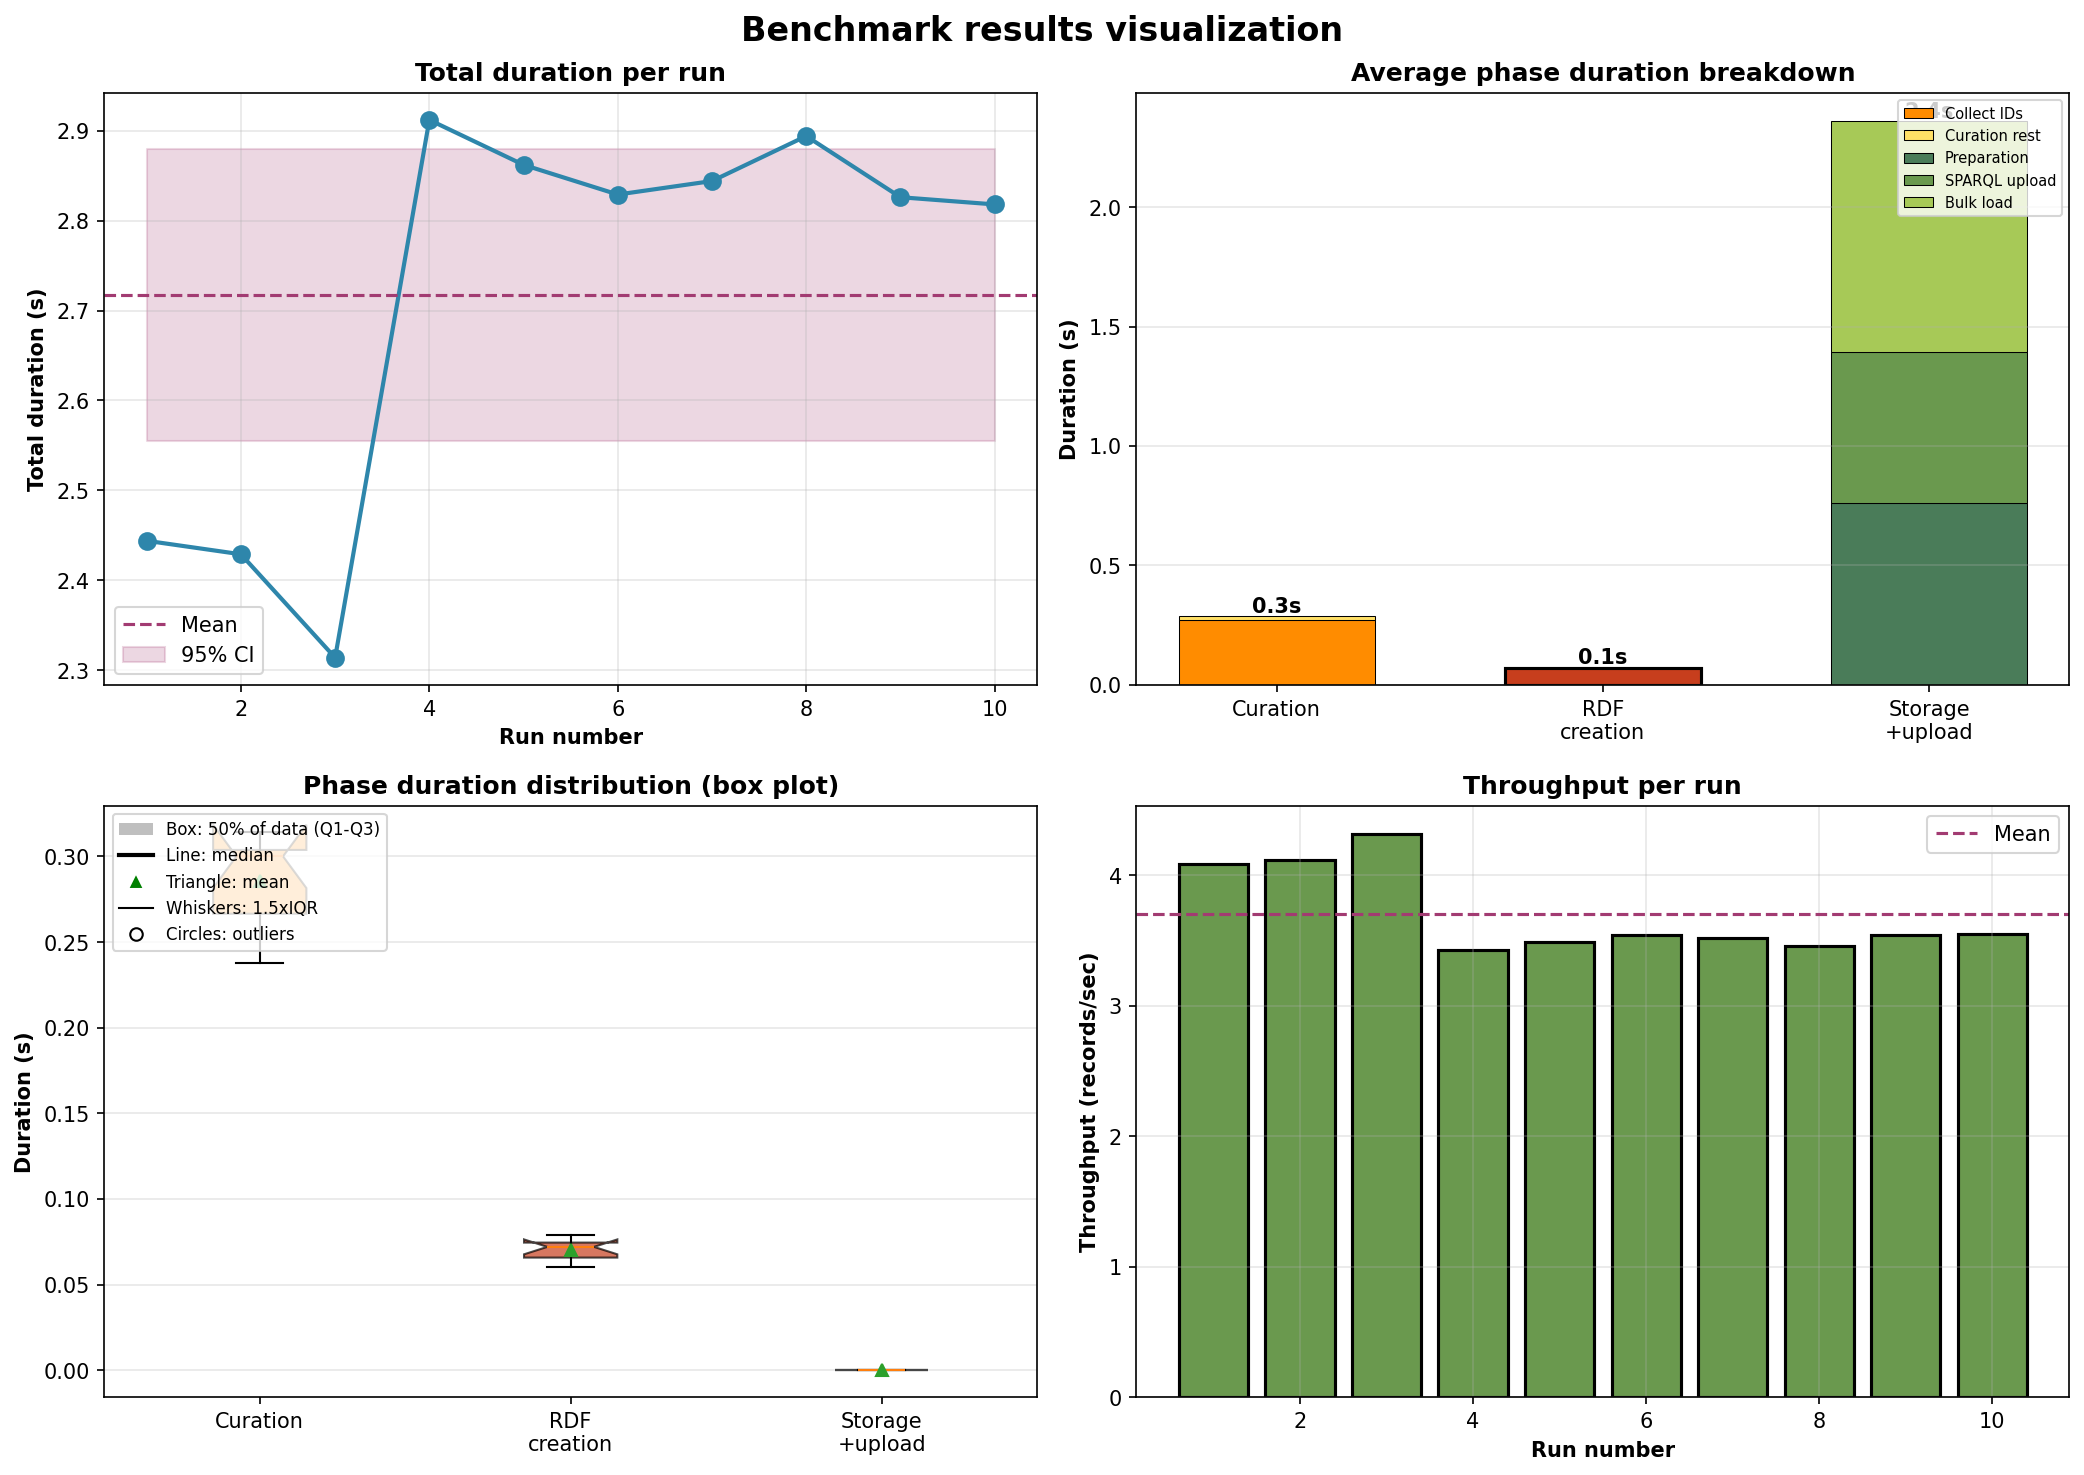
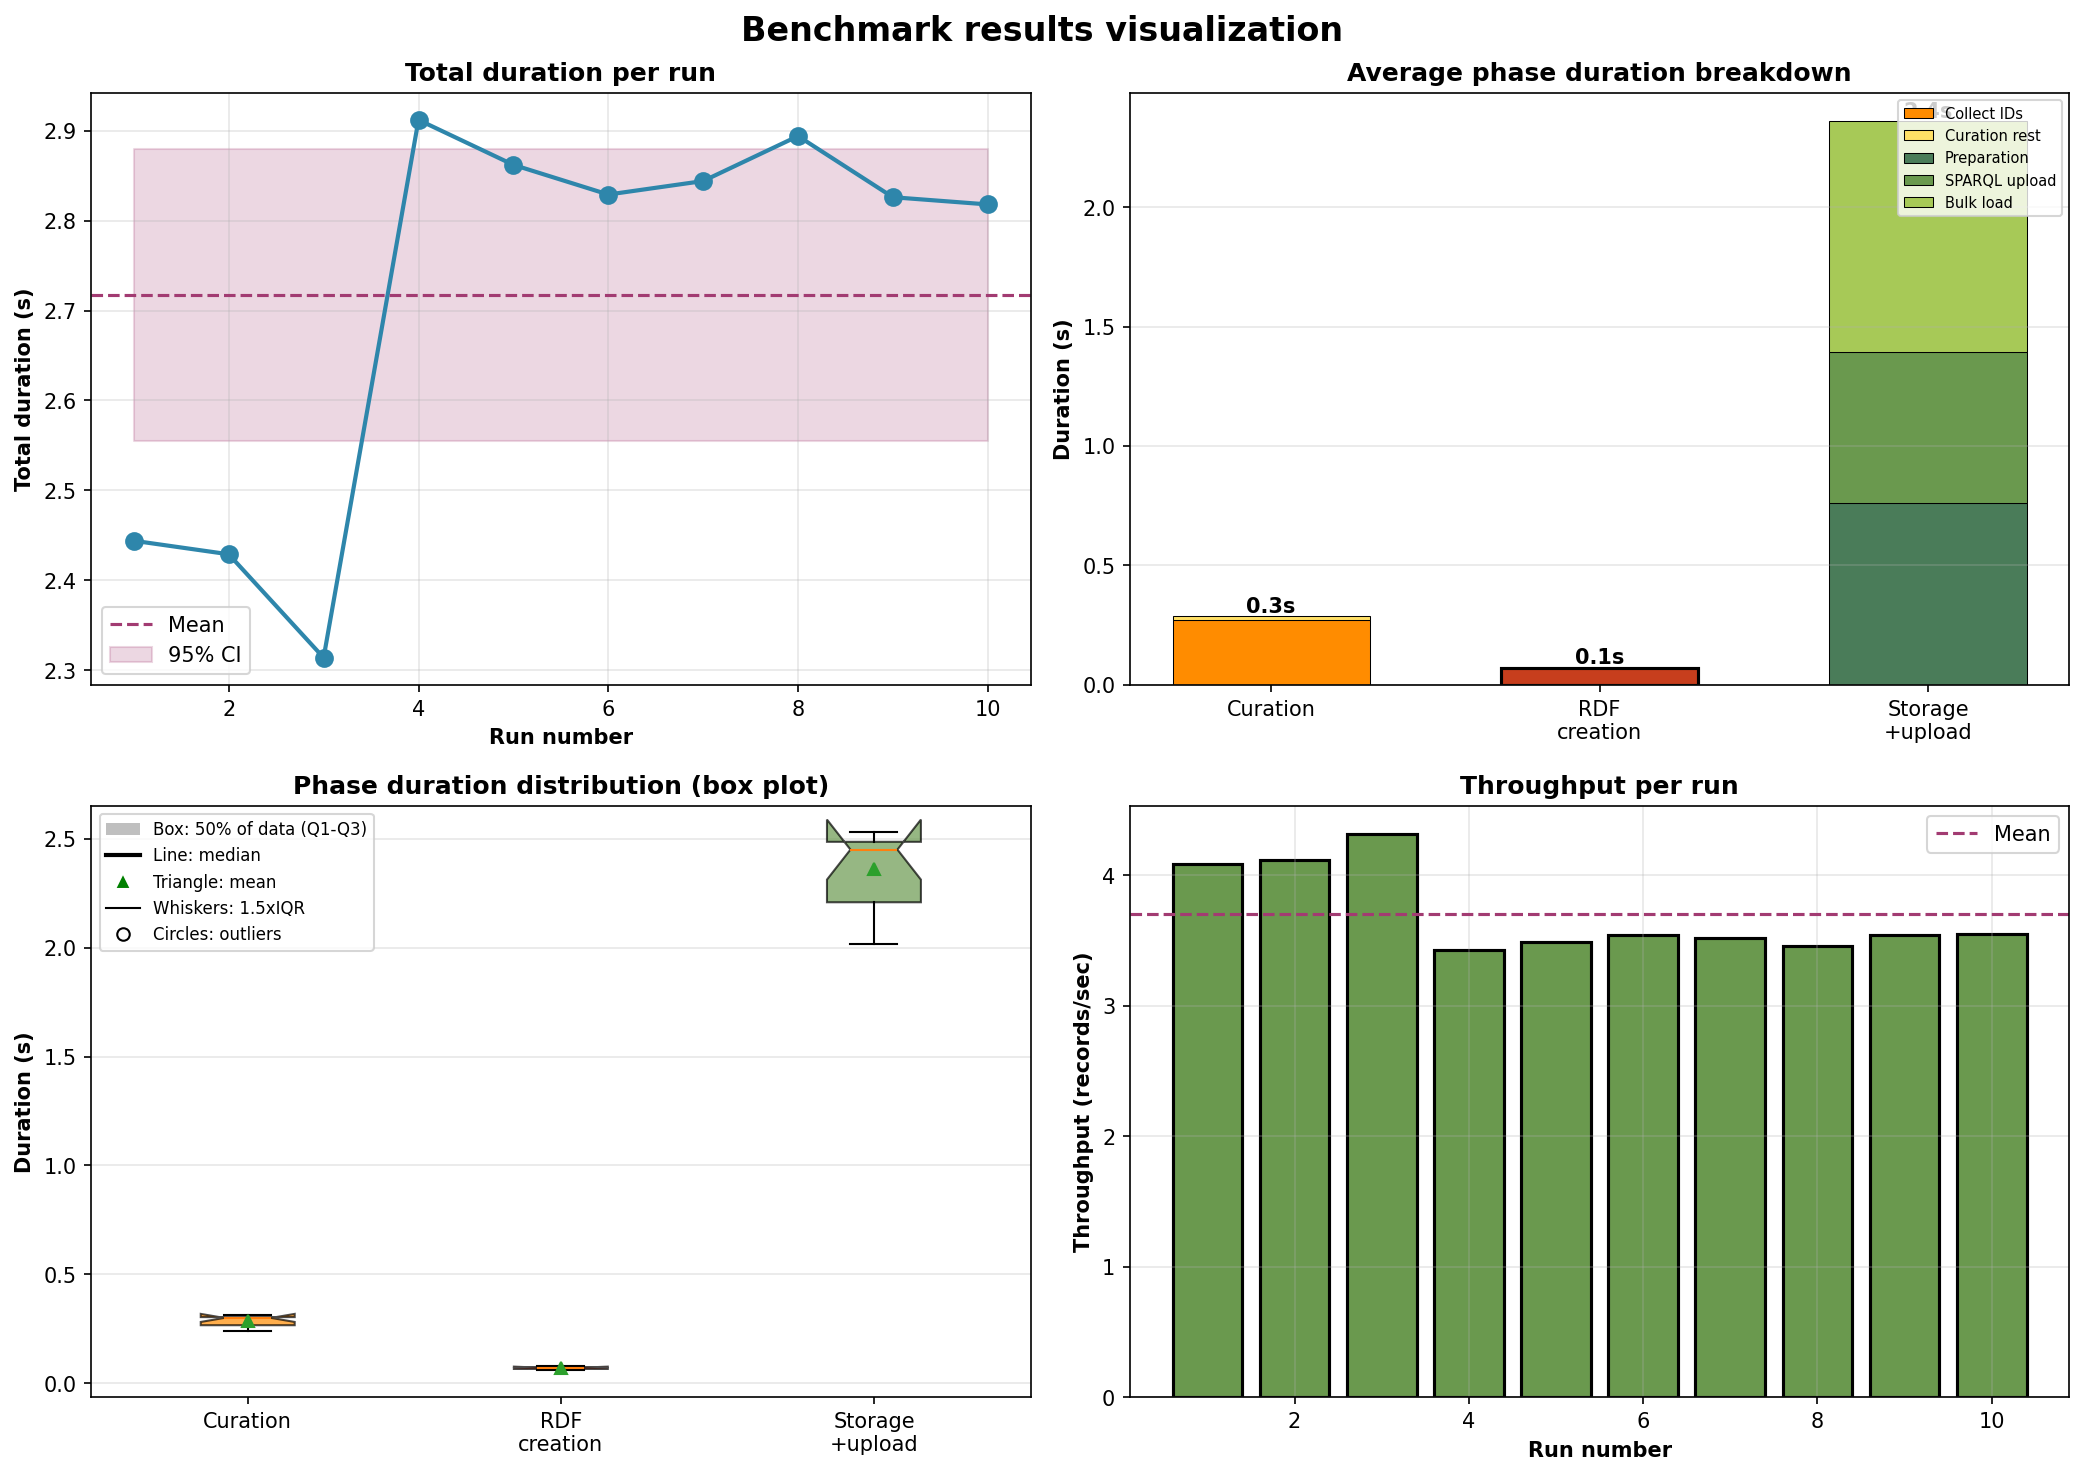
fix(benchmark): use get_storage_total for box plot storage times
The box plot was showing zero for "Storage +upload" because it was
looking for a non-existent "storage_and_upload" phase. Storage timing
is now split into three sub-phases (preparation, sparql_upload, bulk_load).

Fix both plot_benchmark_results and plot_scalability_analysis to sum
the storage sub-phases correctly using get_storage_total().

diff --git a/oc_meta/run/benchmark/plotting.py b/oc_meta/run/benchmark/plotting.py
@@ -147,14 +147,18 @@ def plot_scalability_analysis(per_size_results: List[Dict[str, Any]], output_pat
             )
             phase_data["curation"].append(curation_sum)
             phase_data["rdf_creation"].append(size_data["statistics"]["rdf_creation_duration_seconds"]["mean"])
-            phase_data["storage_upload"].append(size_data["statistics"]["storage_and_upload_duration_seconds"]["mean"])
+            # Sum all storage sub-phases
+            storage_sum = sum(
+                size_data["statistics"][f"{p}_duration_seconds"]["mean"] for p in STORAGE_SUB_PHASES
+            )
+            phase_data["storage_upload"].append(storage_sum)
         else:
             run = size_data["runs"][0]
             mean_durations.append(run["metrics"]["total_duration_seconds"])
             mean_throughputs.append(run["metrics"]["throughput_records_per_sec"])
             phase_data["curation"].append(get_curation_total(run))
             phase_data["rdf_creation"].append(get_phase_duration_by_name(run, "rdf_creation"))
-            phase_data["storage_upload"].append(get_phase_duration_by_name(run, "storage_and_upload"))
+            phase_data["storage_upload"].append(get_storage_total(run))
 
     axes[0, 0].plot(sizes, mean_durations, marker='o', linewidth=2, markersize=8, color='#2E86AB')
     apply_plot_style(axes[0, 0], 'Total duration vs dataset size', 'Dataset size (records)', 'Duration (s)')
@@ -240,7 +244,7 @@ def plot_benchmark_results(all_runs: List[Dict[str, Any]], stats: Dict[str, Dict
     # Box plot for phase distribution
     curation_times = [get_curation_total(r) for r in all_runs]
     rdf_times = [get_phase_duration_by_name(r, "rdf_creation") for r in all_runs]
-    upload_times = [get_phase_duration_by_name(r, "storage_and_upload") for r in all_runs]
+    upload_times = [get_storage_total(r) for r in all_runs]
 
     boxplot_phase_names = ['Curation', 'RDF\ncreation', 'Storage\n+upload']
     boxplot_colors = [CURATION_COLLECT_IDS_COLOR, RDF_CREATION_COLOR, STORAGE_COLOR]
